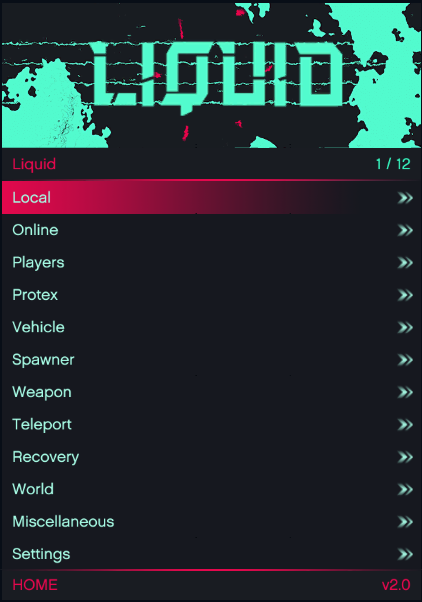
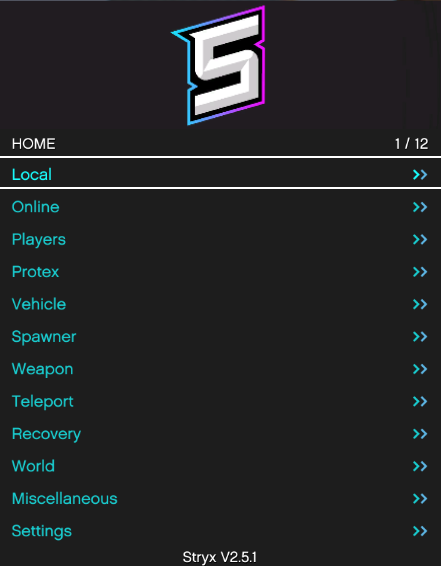
stryx final

diff --git a/stryx.html b/stryx.html
@@ -120,14 +120,14 @@ filter: progid:DXImageTransform.Microsoft.gradient(startColorstr="#180024",endCo
             <div class="row g-5 align-items-center">
                 <div class="col-lg-6 py-6 pb-0 pt-lg-0">
                     <h3 class="text-primary mb-3">Welcome to</h3>
-                    <h1 class="display-3 mb-3">Liquid V2</h1>
+                    <h1 class="display-3 mb-3">Stryx V3</h1>
                     <h2 class="typed-text-output d-inline"></h2>
-                    <div class="typed-text d-none">A Free GTA5 Mod to have Fun with. </div>
+                    <div class="typed-text d-none">A Free GTA5 Mod Menu that will help you have fun!. </div>
                     <div class="typed-text d-none">Scroll Down for more Info</div>
                     <div class="d-flex align-items-center pt-5">
-                        <a href="https://bstlar.com/6/downloadliquid" class="btn btn-primary py-3 px-4 me-5">Download</a> 
-                      <a href="https://bstlar.com/6/liquidkey" class="btn btn-primary py-3 px-4 me-5">Get Key</a>  
-                        <a href="https://discord.gg/3pc3Wpja6V" class="btn btn-primary py-3 px-4 me-5">Discord</a>
+                        <a href="https://bstlar.com/6/stryx" class="btn btn-primary py-3 px-4 me-5">Download</a> 
+                      <a href="https://bstlar.com/6/stryxkey" class="btn btn-primary py-3 px-4 me-5">Get Key</a>  
+                        <a href="https://discord.gg/AgvUUF4FjA" class="btn btn-primary py-3 px-4 me-5">Discord</a>
 
 
 
